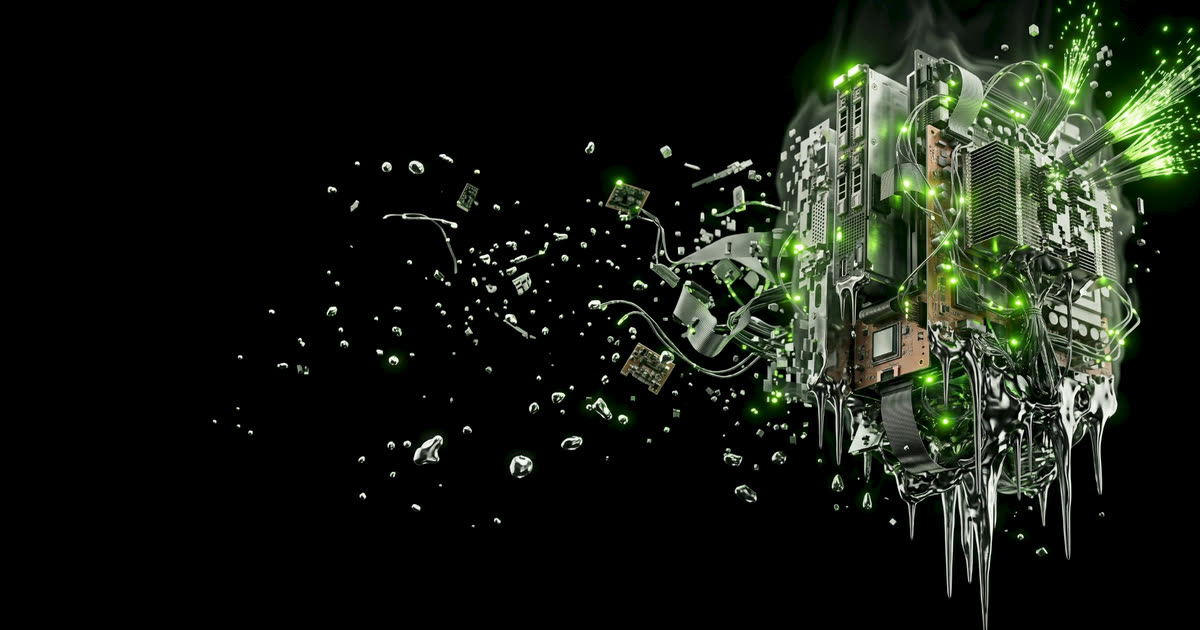
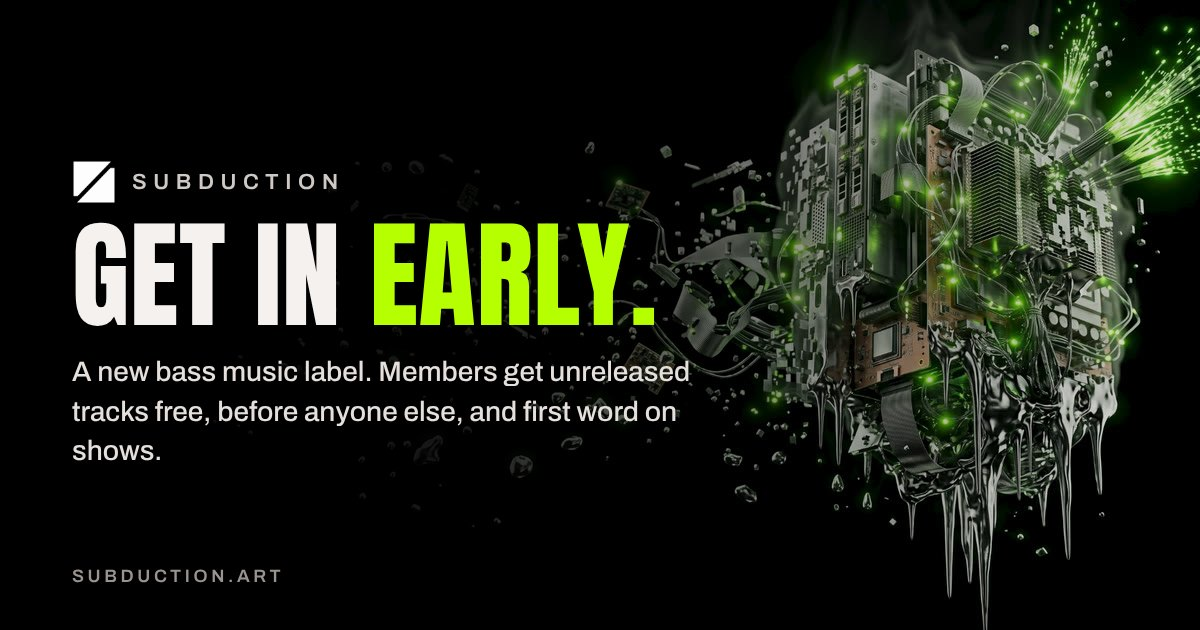
Link previews: branded share images and preview tags on every page (#19)
The share image now carries the wordmark, a headline and the one-line pitch. The
sticker page and the collection page get their own images and preview text, so a
pasted link shows what it is instead of a bare art crop or nothing.

Claude-Session: https://claude.ai/code/session_01D4mAv48GYXFntTFyNJfWS4

diff --git a/site/index.html b/site/index.html
@@ -7,10 +7,16 @@
 <meta name="claude:viewport-fit-sides" content="cover">
 <link rel="icon" type="image/png" href="assets/favicon.png">
 <link rel="apple-touch-icon" href="assets/apple-touch.png">
+<meta property="og:type" content="website">
+<meta property="og:site_name" content="Subduction">
 <meta property="og:title" content="Subduction">
-<meta property="og:description" content="A new bass music label and the community around it. Members get unreleased tracks free, before anyone else.">
+<meta property="og:description" content="A new bass music label and the community around it. Members get unreleased tracks free, before anyone else, and first word on shows.">
 <meta property="og:image" content="https://subduction.art/assets/og.jpg">
+<meta property="og:image:width" content="1200"><meta property="og:image:height" content="630">
 <meta name="twitter:card" content="summary_large_image">
+<meta name="twitter:title" content="Subduction">
+<meta name="twitter:description" content="A new bass music label and the community around it. Members get unreleased tracks free, before anyone else, and first word on shows.">
+<meta name="twitter:image" content="https://subduction.art/assets/og.jpg">
 <script>document.documentElement.className="js"</script>
 <link rel="preconnect" href="https://fonts.googleapis.com"><link rel="preconnect" href="https://fonts.gstatic.com" crossorigin>
 <link href="https://fonts.googleapis.com/css2?family=Anton&family=Archivo:wght@400;500;600&family=Space+Mono:wght@400;700&display=swap" rel="stylesheet">

diff --git a/site/t.html b/site/t.html
@@ -6,6 +6,16 @@
 <link rel="icon" type="image/png" href="assets/favicon.png">
 <link rel="apple-touch-icon" href="assets/apple-touch.png">
 <meta name="robots" content="noindex">
+<meta property="og:type" content="website">
+<meta property="og:site_name" content="Subduction">
+<meta property="og:title" content="An unreleased track is waiting">
+<meta property="og:description" content="Drop your email and it goes straight into your collection. Free. Nobody outside Subduction has it.">
+<meta property="og:image" content="https://subduction.art/assets/og-track.jpg">
+<meta property="og:image:width" content="1200"><meta property="og:image:height" content="630">
+<meta name="twitter:card" content="summary_large_image">
+<meta name="twitter:title" content="An unreleased track is waiting">
+<meta name="twitter:description" content="Drop your email and it goes straight into your collection. Free. Nobody outside Subduction has it.">
+<meta name="twitter:image" content="https://subduction.art/assets/og-track.jpg">
 <link rel="preconnect" href="https://fonts.googleapis.com"><link rel="preconnect" href="https://fonts.gstatic.com" crossorigin>
 <link href="https://fonts.googleapis.com/css2?family=Anton&family=Archivo:wght@400;500;600&family=Space+Mono:wght@400;700&display=swap" rel="stylesheet">
 <link rel="stylesheet" href="assets/app.css">

diff --git a/site/collection.html b/site/collection.html
@@ -6,6 +6,16 @@
 <link rel="icon" type="image/png" href="assets/favicon.png">
 <link rel="apple-touch-icon" href="assets/apple-touch.png">
 <meta name="robots" content="noindex">
+<meta property="og:type" content="website">
+<meta property="og:site_name" content="Subduction">
+<meta property="og:title" content="Your Subduction collection">
+<meta property="og:description" content="Every unreleased track you have unlocked, in one place. Play it or download the WAV.">
+<meta property="og:image" content="https://subduction.art/assets/og-collection.jpg">
+<meta property="og:image:width" content="1200"><meta property="og:image:height" content="630">
+<meta name="twitter:card" content="summary_large_image">
+<meta name="twitter:title" content="Your Subduction collection">
+<meta name="twitter:description" content="Every unreleased track you have unlocked, in one place. Play it or download the WAV.">
+<meta name="twitter:image" content="https://subduction.art/assets/og-collection.jpg">
 <link rel="preconnect" href="https://fonts.googleapis.com"><link rel="preconnect" href="https://fonts.gstatic.com" crossorigin>
 <link href="https://fonts.googleapis.com/css2?family=Anton&family=Archivo:wght@400;500;600&family=Space+Mono:wght@400;700&display=swap" rel="stylesheet">
 <link rel="stylesheet" href="assets/app.css">

diff --git a/site/privacy.html b/site/privacy.html
@@ -5,6 +5,16 @@
 <meta name="viewport" content="width=device-width,initial-scale=1,viewport-fit=cover">
 <link rel="icon" type="image/png" href="assets/favicon.png">
 <link rel="apple-touch-icon" href="assets/apple-touch.png">
+<meta property="og:type" content="website">
+<meta property="og:site_name" content="Subduction">
+<meta property="og:title" content="Subduction privacy">
+<meta property="og:description" content="What Subduction collects when you join, why, and how to get it deleted.">
+<meta property="og:image" content="https://subduction.art/assets/og.jpg">
+<meta property="og:image:width" content="1200"><meta property="og:image:height" content="630">
+<meta name="twitter:card" content="summary_large_image">
+<meta name="twitter:title" content="Subduction privacy">
+<meta name="twitter:description" content="What Subduction collects when you join, why, and how to get it deleted.">
+<meta name="twitter:image" content="https://subduction.art/assets/og.jpg">
 <link rel="preconnect" href="https://fonts.googleapis.com"><link rel="preconnect" href="https://fonts.gstatic.com" crossorigin>
 <link href="https://fonts.googleapis.com/css2?family=Anton&family=Archivo:wght@400;500;600&family=Space+Mono:wght@400;700&display=swap" rel="stylesheet">
 <link rel="stylesheet" href="assets/app.css">
